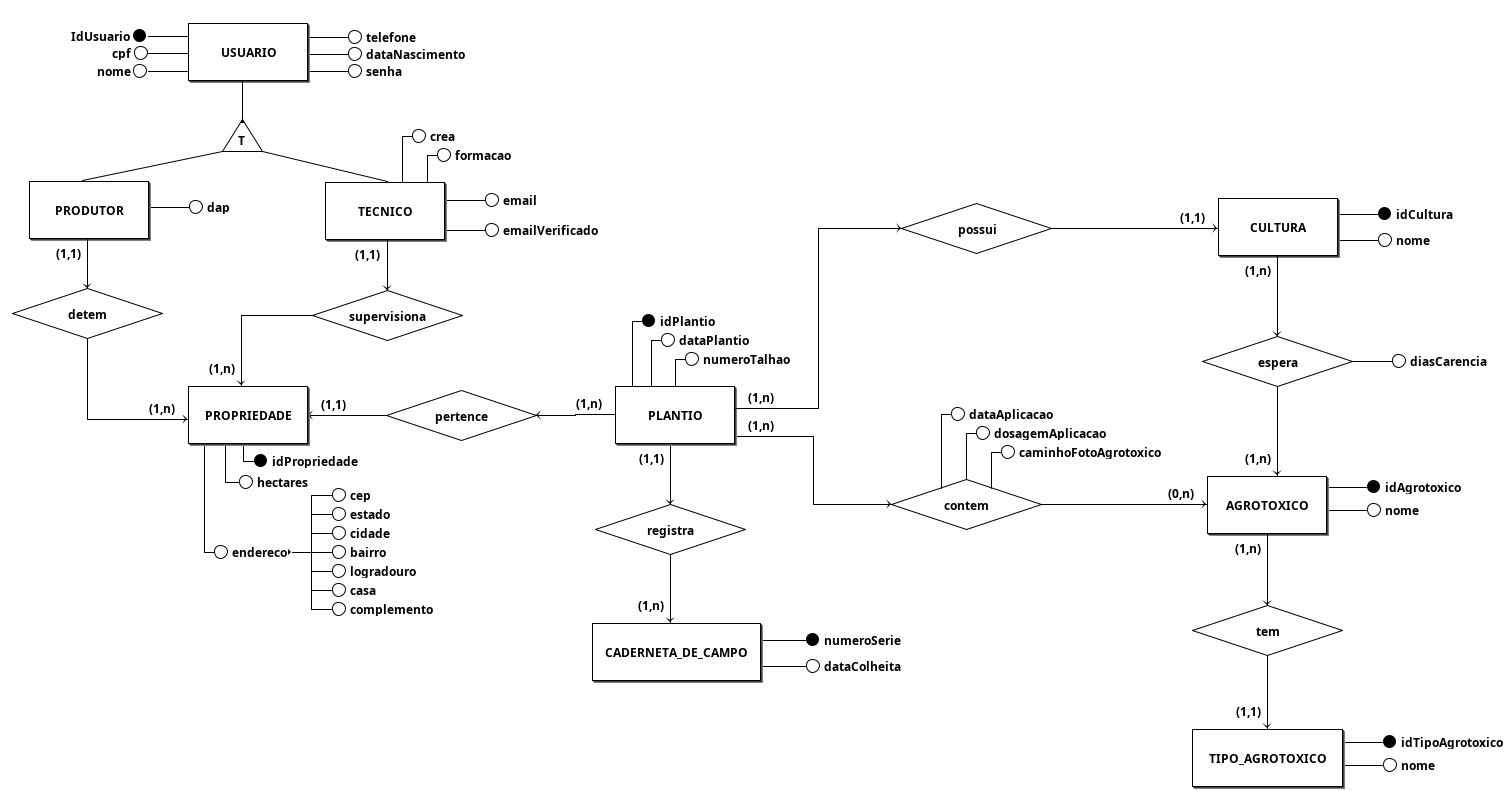
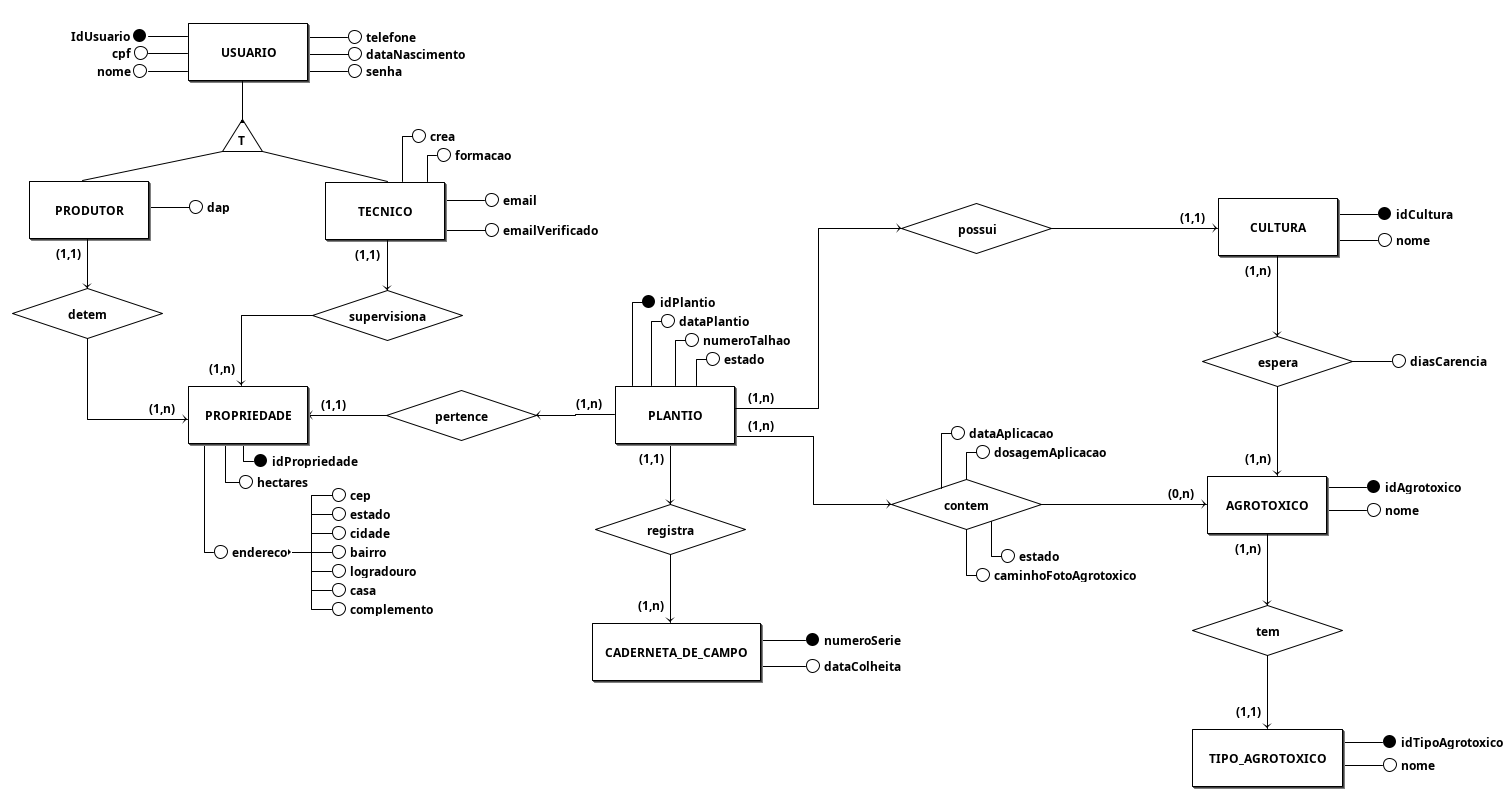
#60 Adicionando atributo de estado

Changed region(s): [[0.4044, 0.3641, 0.5288, 0.4855], [0.6221, 0.5158, 0.7776, 0.5765], [0.6532, 0.6979, 0.7465, 0.7585]]

diff --git a/docs/modelagem/extras/mer.md b/docs/modelagem/extras/mer.md
@@ -8,6 +8,7 @@
 | 1.1    | 13/02/2022 | Introdução do documento | Rafael Ramos |
 | 1.1.1  | 14/02/2022 | Revisão do documento    | João Pedro e Carlos |
 | 1.2    | 17/02/2022 | Correção de formato e erros    | Thiago |
+| 1.3    | 17/02/2022 | Adição do atributo de estado   | Thiago |
 
 ## 2. Introdução
 
@@ -31,7 +32,7 @@
 - PRODUTOR ( <span style="text-decoration: underline;">idUsuario</span>, dap )
 - TECNICO ( <span style="text-decoration: underline;">idUsuario</span>, crea, formacao, email, emailVerificado )
 - PROPRIEDADE ( <span style="text-decoration: underline;">idPropriedade</span>, idProdutor, idTecnico, endereco(cep, cidade, bairro, logradouro, numero, complemento), hectares )
-- PLANTIO ( <span style="text-decoration: underline;">idPlantio</span>, numeroTalhao, idPropriedade, dataPlantio, idCultura )
+- PLANTIO ( <span style="text-decoration: underline;">idPlantio</span>, numeroTalhao, idPropriedade, dataPlantio, idCultura, estado )
 - CADERNETA_DE_CAMPO ( <span style="text-decoration: underline;">numeroSerie</span>, dataColheita, idPlantio )
 - CULTURA ( <span style="text-decoration: underline;">idCultura</span>, nome )
 - AGROTOXICO ( <span style="text-decoration: underline;">idAgrotoxico</span>, nome, idTipoAgrotoxico )
